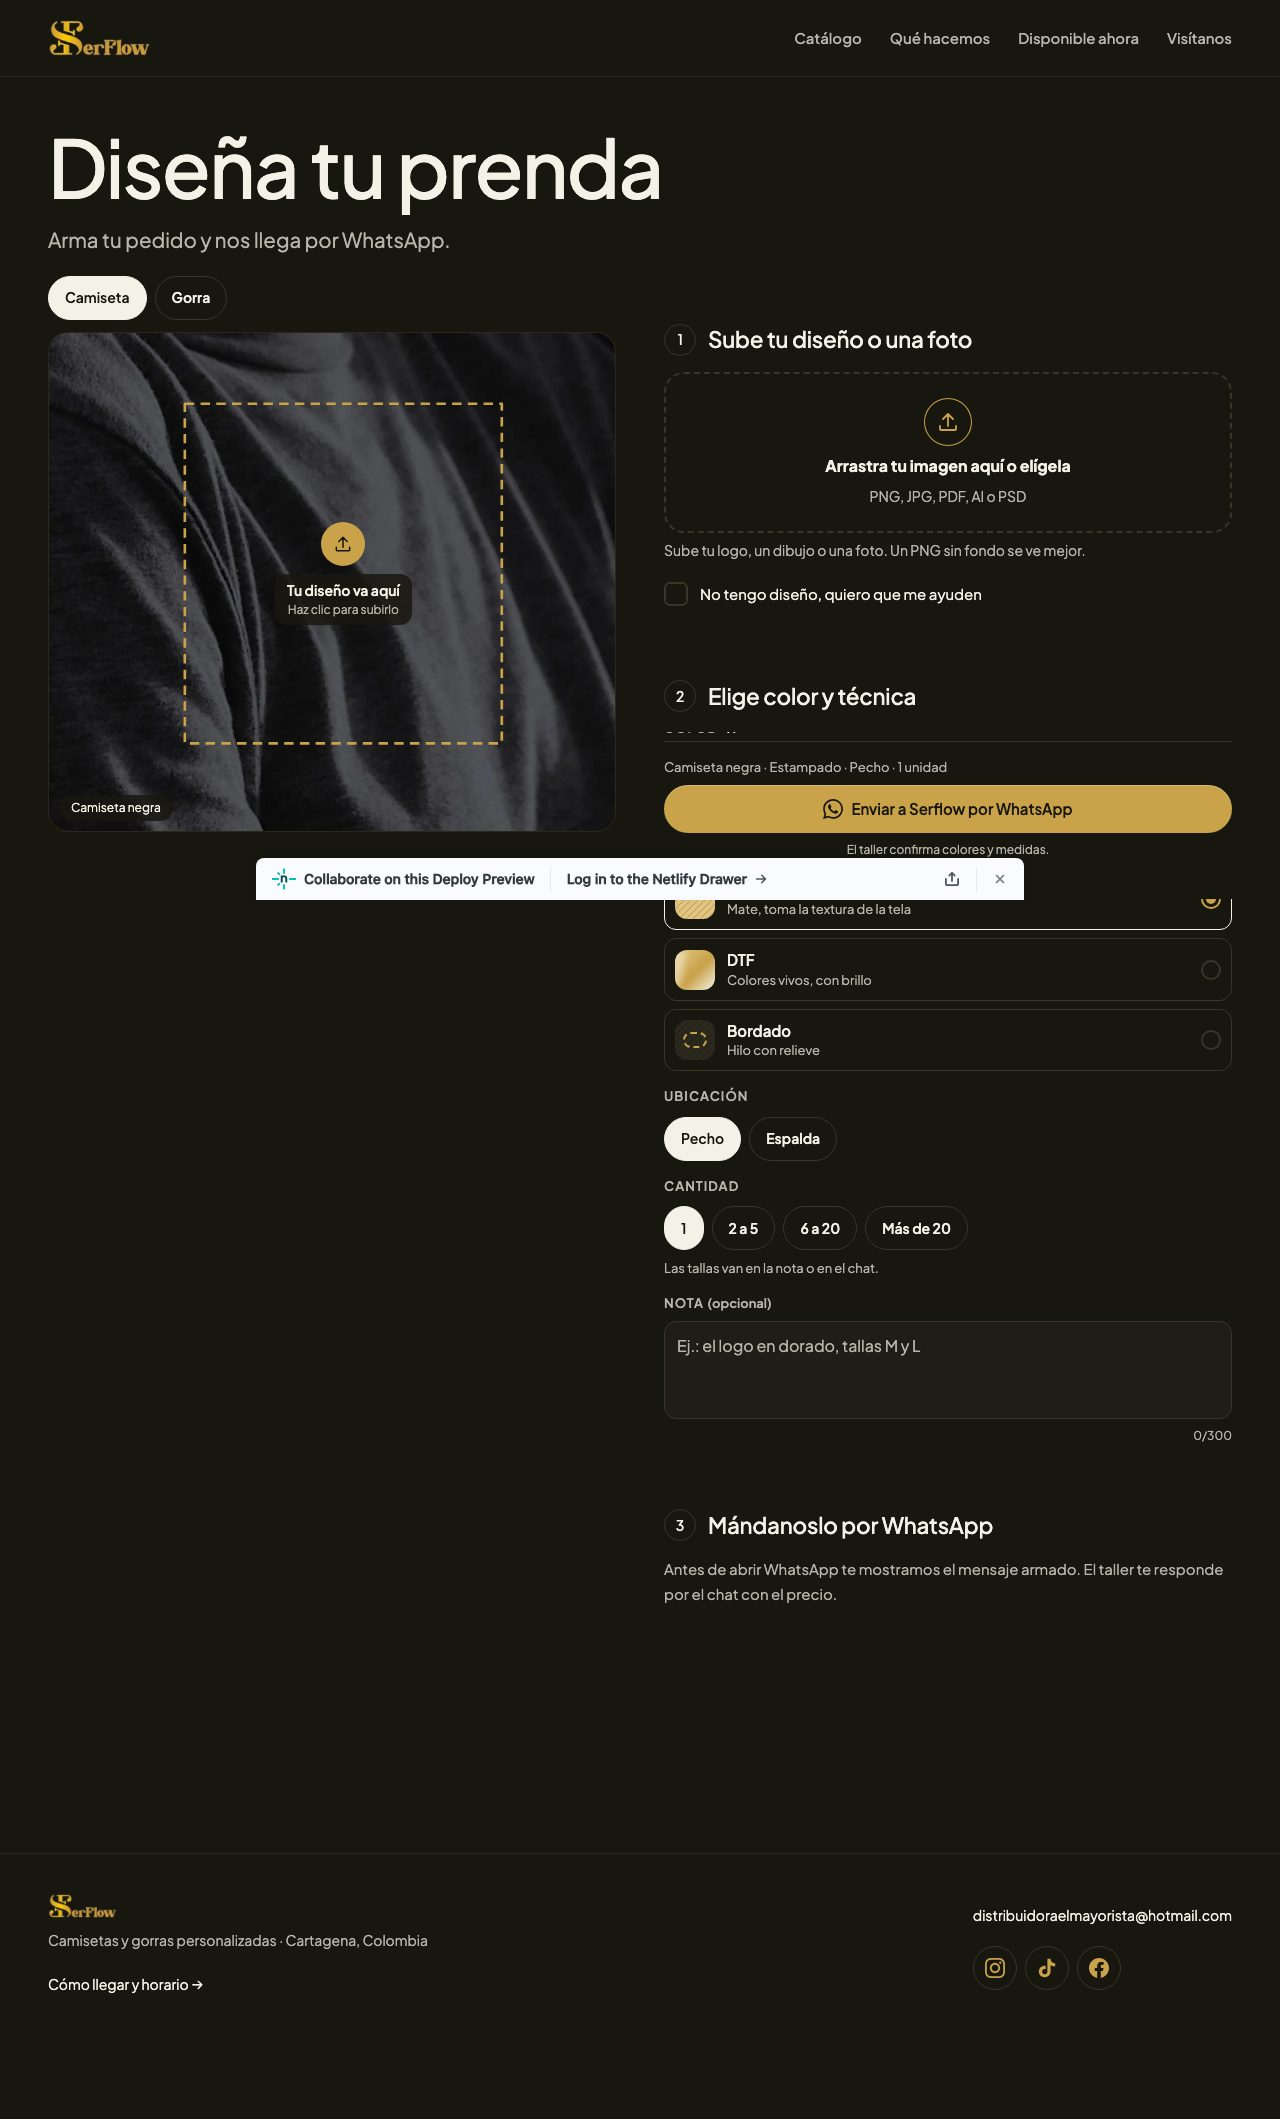
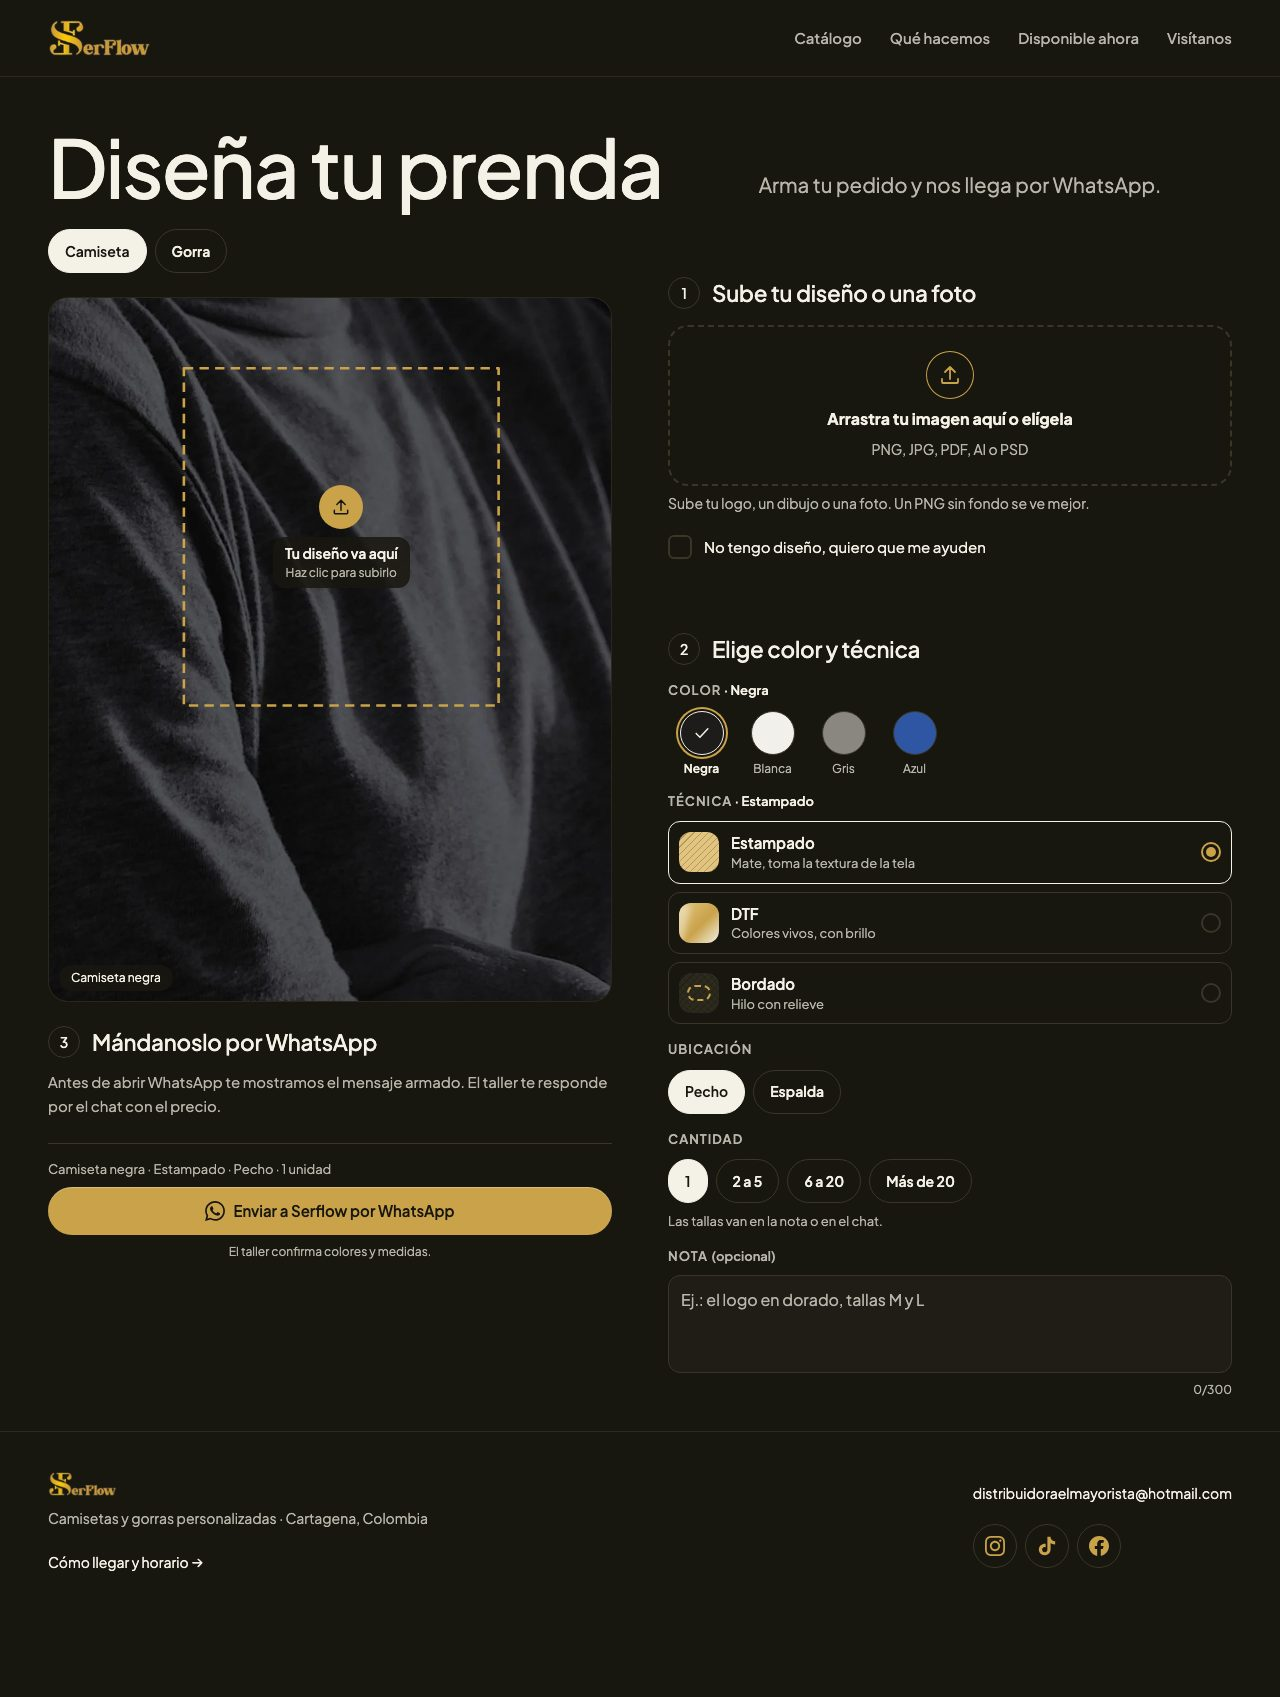
docs: PRI-286 round 3: customizer desktop in two closed columns (preview 4:5 plus send on the left, steps 1-2 on the right), screen notes rewritten

diff --git a/tempo/designs/canvases/refresh-oro-viejo/pantallas-r3.tsx b/tempo/designs/canvases/refresh-oro-viejo/pantallas-r3.tsx
@@ -91,13 +91,23 @@ function Captura({ src, width }: { src: string; width: number }) {
   return <img src={src} alt="" width={width} className="block h-auto" style={{ width }} />;
 }
 
-const NOTA_PORTADA = <>Aire entre secciones de vuelta a 72 / 128 px (la ronda 2 tenía 96 / 176).</>;
-const NOTA_CATALOGO = <>Aire de la cabecera de vuelta a la escala de antes.</>;
-const NOTA_VISOR = <>Aire de vuelta a la escala de antes.</>;
-const NOTA_PROMOS = <>Aire de la cabecera y entre afiches de vuelta a la escala de antes.</>;
+const NOTA_PORTADA = (
+  <>
+    Sin el ticker. El personalizador pasa a un bloque de 480 px en dos columnas (texto y pasos | foto). Tarjetas 4:5 con pie más claro y la bajada
+    de cada sección al lado del título. Aire entre secciones 72 / 128 px (la ronda 2 tenía 96 / 176).
+  </>
+);
+const NOTA_CATALOGO = <>El muro pasa de mosaico a rejilla pareja 4:5 y la página cierra la última fila (12 aquí; 60 en producción). Cabecera con el aire de antes.</>;
+const NOTA_VISOR = <>El panel derecho mide lo mismo que la foto: título arriba, Pedir por WhatsApp al medio, miniaturas grandes abajo. Más de Beisbol en rejilla pareja: 3 filas completas.</>;
+const NOTA_PROMOS = <>La bajada sube al lado de &quot;Promos de hoy&quot;. Cada afiche termina con su texto y los dos botones van en fila: sin el hueco del afiche sin descripción.</>;
 const NOTA_DETALLE = <>Afiche y Más fotos un poco más juntos (56 → 40 px).</>;
 const NOTA_404 = <>Sin comentarios tuyos; revisado con la misma regla de vacíos.</>;
-const NOTA_PERSONALIZADOR = <>/personaliza del PR #36 (sin mergear) desde su deploy preview, con refresh.css + r2 + r3 inyectadas.</>;
+const NOTA_PERSONALIZADOR = (
+  <>
+    /personaliza del PR #36 (sin mergear) desde su deploy preview, con refresh.css + r2 + r3 inyectadas. En desktop, izquierda: prenda, vista previa
+    4:5 y el paso 3 con Enviar; derecha: pasos 1 y 2. Las dos columnas cierran juntas. En el celular solo cambia el aire.
+  </>
+);
 
 const fila = (titulo: string, nota: ReactElement, width: W, Antes: ReactElement, Despues: ReactElement) => (
   <AntesDespues r3 titulo={titulo} nota={nota} width={width} detalleAntes="ronda 2 · la que comentaste" antes={Antes} despues={Despues} />
@@ -144,3 +154,19 @@ const NOTA_TARJETAS = (
 export const R3Tarjetas = () => (
   <AntesDespues r3 titulo="Tarjetas de la portada · 1280" nota={NOTA_TARJETAS} width={1280} detalleAntes="ronda 2 · la que comentaste" antes={<Tarjetas />} despues={<Tarjetas r3 />} />
 );
+
+/** El después de cada pantalla, suelto: de aquí salen las JPG fijas de capturas/r3/ (el personalizador sale del deploy preview). */
+export const DESPUES_R3: Record<string, () => ReactElement> = {
+  "portada-390": () => <PortadaR3 width={390} />,
+  "portada-1280": () => <PortadaR3 width={1280} />,
+  "catalogo-categoria-390": () => <Catalogo width={390} r3 tiles={TILES_R3} next={80} />,
+  "catalogo-categoria-1280": () => <Catalogo width={1280} r3 tiles={TILES_R3} next={80} />,
+  "catalogo-visor-390": () => <Visor width={390} r3 />,
+  "catalogo-visor-1280": () => <Visor width={1280} r3 />,
+  "promos-lista-390": () => <Promos width={390} r3 />,
+  "promos-lista-1280": () => <Promos width={1280} r3 />,
+  "promos-detalle-390": () => <PromoDetalle width={390} r3 />,
+  "promos-detalle-1280": () => <PromoDetalle width={1280} r3 />,
+  "404-390": () => <NoExiste width={390} r3 />,
+  "404-1280": () => <NoExiste width={1280} r3 />,
+};

diff --git a/tempo/designs/canvases/refresh-oro-viejo/narracion-r3.tsx b/tempo/designs/canvases/refresh-oro-viejo/narracion-r3.tsx
@@ -61,6 +61,11 @@ export const RESUELTOS: { donde: string; dijo: string; hecho: ReactNode }[] = [
     dijo: "Aqui hay un espacio desaprovechado",
     hecho: <>El afiche sin descripción estiraba su pie para alinear los botones con el vecino (~570 x 90 vacío). Ahora cada afiche termina con su texto y los dos botones van en fila. La bajada de la cabecera sube al lado del título.</>,
   },
+  {
+    donde: "Personalizador · 1280",
+    dijo: "Me parece que estamos desaprovechando mucho este espacio aqui",
+    hecho: <>Debajo de la vista previa quedaban ~560 x 900 vacíos. Ahora la izquierda lleva prenda, vista previa 4:5 y el paso 3 con el resumen y Enviar (sticky); la derecha, los pasos 1 y 2. Las dos columnas cierran a ~130 px una de otra.</>,
+  },
 ];
 
 /** Zonas revisadas con la regla de vacíos (frame, dónde, tamaño antes -> después). */
@@ -75,6 +80,8 @@ export const ZONAS: { frame: string; donde: string; antes: string; despues: stri
   { frame: "Visor 1280", donde: "Panel derecho bajo las miniaturas", antes: "~520 x 420 vacío", despues: "panel a la altura de la foto; huecos internos de ~520 x 165" },
   { frame: "Promos 1280", donde: "Afiche sin descripción, entre título y botones", antes: "~570 x 90 vacío", despues: "botones pegados al título, en fila" },
   { frame: "Promos 1280", donde: "Cabecera, derecha del título", antes: "~600 x 250 vacío", despues: "bajada en columnas 8-12" },
+  { frame: "Personalizador 1280", donde: "Columna izquierda bajo la vista previa", antes: "~560 x 900 vacío", despues: "vista previa 4:5 + paso 3 y Enviar; desfase final ~560 x 130" },
+  { frame: "Personalizador 1280", donde: "Cabecera, derecha del h1", antes: "~560 x 120 vacío", despues: "bajada al lado del h1" },
   { frame: "Visor 1280", donde: "Más de Beisbol, abajo", antes: "huecos de ~290 x 120 a ~290 x 300", despues: "3 filas completas" },
 ];
 
@@ -148,6 +155,7 @@ const CAMBIOS: { grupo: string; items: ReactNode[] }[] = [
       <>Masonry → rejilla: grid de 2 / 3 / 4 columnas (las de hoy), gap 8 / 12, todas las fotos 4:5 (se va el RITMO de alturas; offset deja de servir). Las páginas del muro son de 60 (PAGE_SIZE ya es 60: cierra fila con 2, 3 y 4 columnas); Más de pasa 12 (6 en el celular).</>,
       <>ViewerPage desktop: items-stretch; el panel derecho flex-col justify-between (título y categoría / botón y nota / miniaturas); botón de 360 px como máximo.</>,
       <>PromosPage desktop: cabecera grid 7fr / 5fr (eyebrow y h1 a la izquierda, bajada a la derecha al pie del h1). PromoGrid: items-start. PromoAfiche: el bloque de botones sin mt-auto (mt 4) y desde @md en fila (Pedir por WhatsApp de ancho propio + Ver las N fotos).</>,
+      <>PersonalizaPage (PR #36) desde @4xl: dos columnas; izquierda (sticky top 24) = selector de prenda, vista previa con aspect-[4/5] en vez del alto fijo, paso 3 y la tarjeta de Enviar (sin sticky bottom en desktop); derecha = pasos 1 y 2 con gap 48. Cabecera grid 7fr / 5fr. El celular no cambia de orden.</>,
       <>PhotoThumbs desktop: grid de 3 columnas, cada miniatura 4:5 (antes size-14), la elegida con anillo de 2 px en tinta.</>,
     ],
   },

diff --git a/tempo/designs/canvases/refresh-oro-viejo/refresh-r3.css b/tempo/designs/canvases/refresh-oro-viejo/refresh-r3.css
@@ -119,3 +119,23 @@
   .sf-r3 main > div.px-4.pb-12.pt-6 > div:first-child > h1 { grid-column: 1; }
   .sf-r3 main > div.px-4.pb-12.pt-6 > div:first-child > p { grid-column: 2; grid-row: 2; margin: 0; padding-bottom: 10px; }
 }
+
+/* ---------- Personalizador (/personaliza, PR #36) en desktop ---------- */
+
+/* Said: "estamos desaprovechando mucho este espacio" (columna izquierda vacía ~520 x 900 debajo de la vista previa).
+   Izquierda: prenda, vista previa 4:5 y el paso 3 con el resumen y Enviar (todo junto, sticky). Derecha: pasos 1 y 2.
+   Las dos columnas cierran a la misma altura. PUENTE: la captura mueve esos nodos a .pz-izq / .pz-der; en el PR,
+   PersonalizaPage arma las dos columnas así a partir de @4xl (en el celular no cambia el orden). */
+@media (min-width: 1024px) {
+  .sf-r3 main:has(> .pz-izq) { grid-template-rows: auto 1fr; column-gap: 56px; align-items: start; }
+  .sf-r3 main > .pz-izq { grid-column: 1; grid-row: 2; display: flex; flex-direction: column; gap: 24px; position: sticky; top: 24px; }
+  .sf-r3 main > .pz-der { grid-column: 2; grid-row: 2; padding-top: 0; gap: 48px; }
+  .sf-r3 .pz-izq > * { align-self: stretch; }
+  .sf-r3 .pz-izq > fieldset { padding: 0; }
+  .sf-r3 .pz-izq > div.sticky { position: static; margin: 0; padding: 0; box-shadow: none; }
+  .sf-r3 .pz-izq > div.sticky > div.\@container { height: auto !important; aspect-ratio: 4 / 5; }
+  .sf-r3 .pz-izq > section { gap: 12px; }
+  /* Cabecera: h1 en 7 columnas y la bajada al pie, en las otras 5. */
+  .sf-r3 main:has(> .pz-izq) > div:first-child { display: grid; grid-template-columns: minmax(0, 7fr) minmax(0, 5fr); column-gap: 48px; align-items: end; }
+  .sf-r3 main:has(> .pz-izq) > div:first-child > p { margin: 0; padding-bottom: 8px; }
+}
